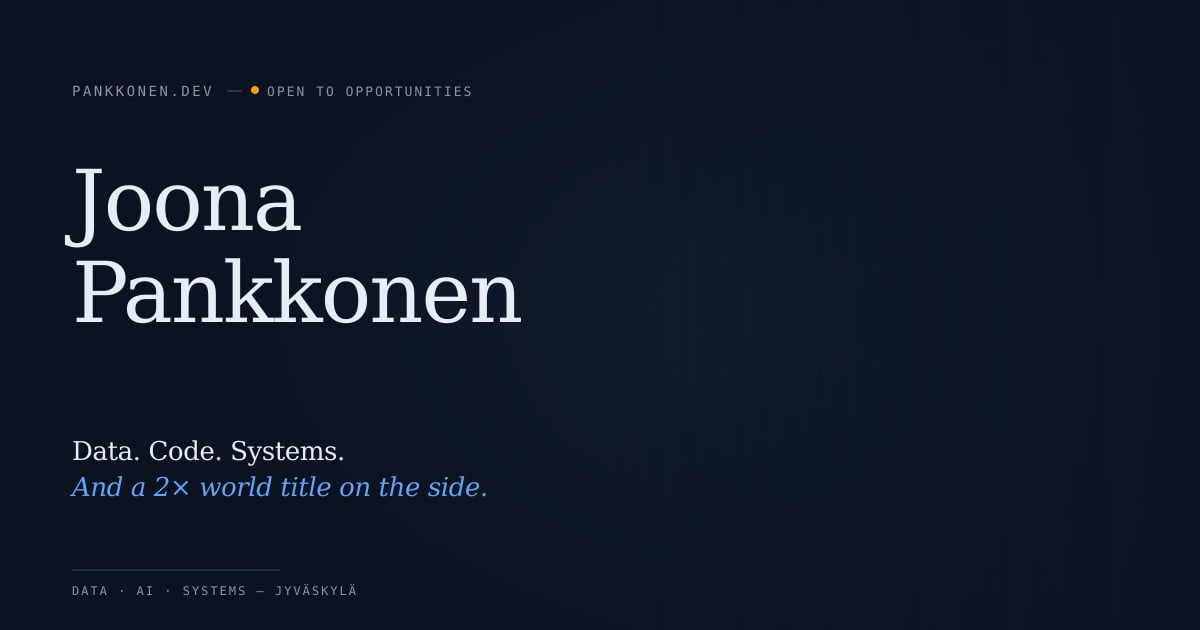
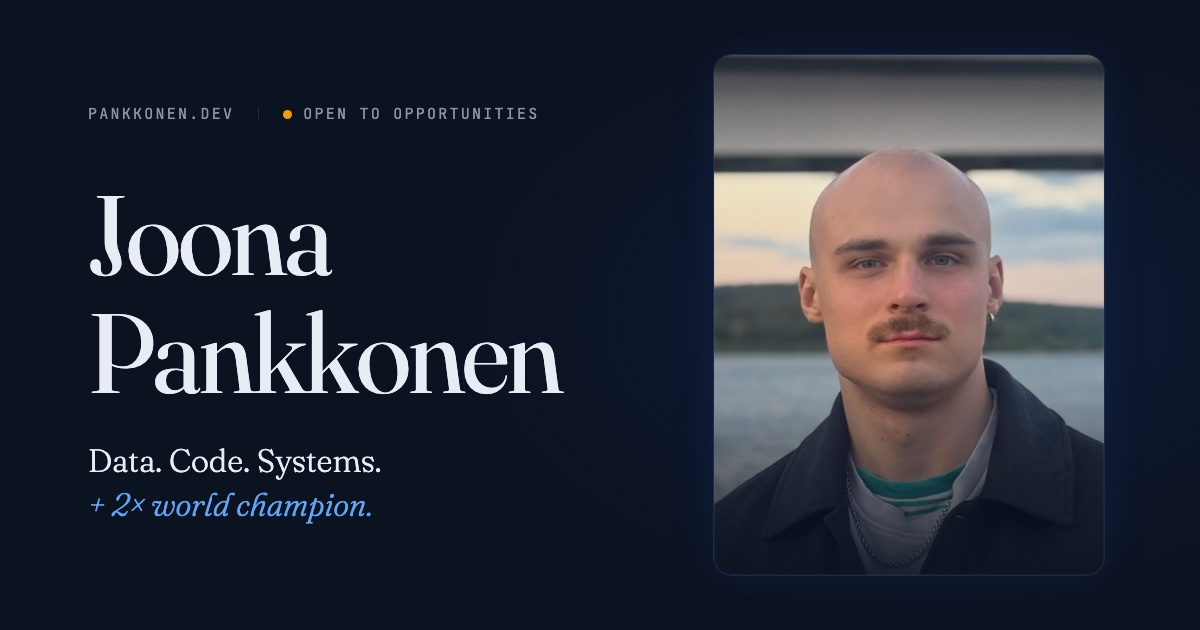
chore: refresh README, fix OG preview and hosting copy
- Rewrite README: overview, screenshots, stack, design system,
  architecture, deployment and build log
- Regenerate og-image.jpg to match the live hero (Fraunces font,
  current tagline, portrait)
- Use absolute og:image/twitter:image URLs, add og:url and canonical
  (set `site` in astro.config.mjs)
- Fix hosting copy: Cloudflare Pages -> Cloudflare Workers
- Rename About.astro -> Beyond.astro to match its content
- Rename docs/superpowers -> docs/design
- Remove unused .codesandbox/Dockerfile
- Bump version to 1.0.0

diff --git a/README.md b/README.md
@@ -1,92 +1,232 @@
+<div align="center">
+
 # pankkonen.dev
 
-Personal CV and portfolio site for Joona Pankkonen — IT Engineering student focused on data analytics and AI, based in Jyväskylä, Finland.
+**Personal portfolio of Joona Pankkonen, an IT engineering student working on data, AI and systems.**<br/>
+Hand-built with Astro: one page, no runtime framework, Lighthouse 100 on desktop.
 
-The reference aesthetic is a blend of modern fintech and editorial sites: deep navy, editorial serif headings, spring-easing scroll reveals, one amber accent used sparingly.
+[![Live site](https://img.shields.io/badge/live-pankkonen.dev-F59E0B?style=flat-square&labelColor=0B1220)](https://pankkonen.dev)
+[![Astro](https://img.shields.io/badge/Astro-6-E8EDF5?style=flat-square&logo=astro&logoColor=white&labelColor=0B1220)](https://astro.build)
+[![Tailwind CSS](https://img.shields.io/badge/Tailwind_CSS-4-E8EDF5?style=flat-square&logo=tailwindcss&logoColor=38BDF8&labelColor=0B1220)](https://tailwindcss.com)
+[![TypeScript](https://img.shields.io/badge/TypeScript-strict-E8EDF5?style=flat-square&logo=typescript&logoColor=3178C6&labelColor=0B1220)](https://www.typescriptlang.org)
+[![Cloudflare Workers](https://img.shields.io/badge/Cloudflare-Workers-E8EDF5?style=flat-square&logo=cloudflare&logoColor=F38020&labelColor=0B1220)](https://workers.cloudflare.com)
+[![Lighthouse](https://img.shields.io/badge/Lighthouse-100_desktop_·_98_mobile-22C55E?style=flat-square&labelColor=0B1220)](#performance)
 
-## Stack
+[**Visit the site →**](https://pankkonen.dev)
 
-- **Framework:** Astro (static HTML at build time, component-based)
-- **Styles:** Tailwind CSS + handwritten `global.css` for tokens and motion
-- **Animation:** CSS-only keyframes for the hero load stagger (`heroStaggerReveal` + `heroImageReveal`); `IntersectionObserver` + CSS keyframes for scroll reveals — no animation library at runtime
-- **Hosting:** Cloudflare Workers Assets (auto-deploy on push to `main`)
-- **Domain:** `pankkonen.dev` — live
+<br/>
 
-## Build progress
+<img src=".github/assets/hero.jpg" alt="pankkonen.dev hero section: name in a serif display face, tagline and portrait on a deep navy background" width="100%" />
 
-| Phase | Area | Status |
-|-------|------|--------|
-| 1 | Scaffolding — Astro + Tailwind + CSS animations | Complete |
-| 2 | Design system — tokens, fonts, layout primitives | Complete |
-| 3 | Hero — name, tagline, photo, load stagger | Complete |
-| 4 | Experience & Stack sections (4 categories incl. AI Workflow) | Complete |
-| 5 | Project cards | Complete |
-| 5b | Divider redesign (oval amber aura + edge-faded line + shimmer) and IO flicker debounce | Complete |
-| 6 | About & Beyond the Code (initial: 50/50 grid + portrait clip) | Complete |
-| 6b | Beyond redesign — full-bleed 16:9 video stage, copy refresh, EAWrc clip swap | Complete (2026-05-01) |
-| 6c | Polish — chapter rail, divider v3 (StackDivider + ProjectsDivider), Projects card count-up, About-konsolidointi | Complete (2026-05-02) |
-| 7 | Contact | Complete |
-| 8 | Polish & accessibility (Lighthouse 100/98) | Complete (2026-05-05) |
-| 9 | Cloudflare Workers Assets deploy (wrangler.toml, auto-deploy on push) | Complete (2026-05-06) |
-| 10 | Domain switch — `pankkonen.dev` live, v1.0 published | Complete (2026-05-06) |
+</div>
 
-## Commands
+<br/>
 
-```sh
-npm install      # install dependencies
-npm run dev      # local dev server on http://localhost:4321
-npm run build    # production build to ./dist
-npm run preview  # preview the production build
-```
+## Contents
 
-## Repo layout
+- [Overview](#overview)
+- [Highlights](#highlights)
+- [Screenshots](#screenshots)
+- [Tech stack](#tech-stack)
+- [Performance](#performance)
+- [Design system](#design-system)
+- [Accessibility](#accessibility)
+- [Architecture](#architecture)
+- [Getting started](#getting-started)
+- [Deployment](#deployment)
+- [How it was built](#how-it-was-built)
+- [License](#license)
 
-```
-src/
-├── layouts/Layout.astro        # html shell, global CSS import, fonts, meta
-├── pages/index.astro           # page composition, hero, scroll-reveal IO
-├── components/
-│   ├── ChapterMarker.astro     # right-rail wayfinder (00–05)
-│   ├── Experience.astro        # two-track work | study timeline
-│   ├── Stack.astro             # 4-column tech index
-│   ├── Projects.astro          # 3 cards + expanding panel + stat count-up
-│   ├── About.astro             # legacy filename — renders Beyond the Code only
-│   ├── Contact.astro           # email, GitHub, LinkedIn
-│   └── *Divider.astro          # 5 section transitions (sweep + editorial)
-└── styles/global.css           # design tokens, motion, section divider
-public/                         # joona.{avif,webp,jpeg}, btc-sim.mp4, btc-sim-mobile.mp4, btc-sim-poster.jpg, og-image.jpg
-docs/superpowers/               # locked specs and execution plans
-wrangler.toml                   # Cloudflare Workers Assets config (assets.directory = dist)
-.node-version                   # pins Node 22 for CF build environment
-```
+## Overview
 
-## Design guarantees
+pankkonen.dev is a single-page CV and portfolio. It aims to read like an editorial site rather than a résumé template: deep navy, a serif display face, scroll-triggered motion and one amber accent that is used sparingly.
 
-- Dark only; no light-mode toggle in v1
-- Scroll-reveal motion uses spring easing `cubic-bezier(0.16, 1, 0.3, 1)` with 28px lift at 750ms; hover and panel transitions use the same curve
-- Hero entrance animations are CSS-only (`@keyframes heroStaggerReveal` + `heroImageReveal`); no animation library at runtime. Hero uses `cubic-bezier(0.215, 0.61, 0.355, 1)` (power2.out) at 500–700ms — intentionally snappier than the scroll-reveal spring
-- Section dividers replay on every scroll pass (both directions)
-- Reduced-motion users get revealed content with no transitions; ambient background videos pause and show their poster frame
-- Beyond the Code video plays only while the section is in the viewport (IO-gated); muted, looped, no controls — pure ambient element
-- Beyond stage caps width at `min(100vw, 85vh × 16/9)` on desktop so the 16:9 clip is always shown in full, with page background visible on ultra-wide screens (Linear / Vercel hero pattern). On mobile (≤768px) the stage switches to `aspect-ratio: 4/5` portrait, full-bleed, with a bottom fade dissolving into the page background instead of the desktop scrim
+The page has six chapters:
+
+| # | Chapter | What it shows |
+|---|---------|---------------|
+| 00 | **Intro** | Name, tagline, availability status and portrait |
+| 01 | **Experience** | Two-track timeline with work on one side and studies on the other |
+| 02 | **Stack** | Tools in four categories: Data & ML, Infrastructure, AI Workflow, Web |
+| 03 | **Projects** | Three case studies. Each one expands into a detail panel with animated stats |
+| 04 | **Beyond the Code** | Full-bleed ambient video about competitive sim racing |
+| 05 | **Contact** | Email, GitHub and LinkedIn |
+
+## Highlights
+
+- **Ships almost no JavaScript.** Astro renders everything to static HTML at build time. The client-side scripts are small vanilla `IntersectionObserver` handlers, and no animation library or UI framework loads at runtime.
+- **Motion built only from CSS keyframes.** The hero has a staggered load-in, sections reveal as they scroll into view, and the five section dividers replay their sweep on every pass in both directions.
+- **Chapter rail.** A sticky marker on the right edge tracks the current section and expands into labels on hover.
+- **Expandable project cards.** One full-width panel opens below the card grid, and numeric stats count up when the panel appears.
+- **Video only when visible.** The *Beyond the Code* clip plays only while it is on screen. Mobile gets a lighter portrait encode, and reduced-motion users see a still poster frame.
+- **Fast images.** The hero portrait is served as AVIF (29 KB), with WebP and JPEG fallbacks and a preload hint for LCP.
+
+## Screenshots
+
+<table>
+  <tr>
+    <td width="72%"><img src=".github/assets/experience.jpg" alt="Experience section with a two-track work and study timeline" /></td>
+    <td width="28%" rowspan="2" valign="top"><img src=".github/assets/mobile.jpg" alt="Mobile layout of the hero section" /></td>
+  </tr>
+  <tr>
+    <td><img src=".github/assets/projects.jpg" alt="Projects section with three case-study cards" /></td>
+  </tr>
+  <tr>
+    <td colspan="2"><img src=".github/assets/beyond.jpg" alt="Beyond the Code section: full-bleed video still from the Esports WRC Knockout Trophy" /></td>
+  </tr>
+</table>
+
+## Tech stack
+
+| Layer | Choice | Why |
+|-------|--------|-----|
+| Framework | [Astro 6](https://astro.build) | Static output, component model, zero JS by default |
+| Styling | [Tailwind CSS 4](https://tailwindcss.com) + scoped component CSS | Utilities for layout, plus hand-written CSS for tokens and motion |
+| Language | TypeScript (strict) | Typed content models for projects, stack and experience |
+| Motion | CSS keyframes + `IntersectionObserver` | No runtime animation library |
+| Fonts | Fraunces · DM Sans · JetBrains Mono | Editorial serif, neutral body text and mono labels |
+| Hosting | [Cloudflare Workers](https://developers.cloudflare.com/workers/static-assets/) (static assets) | Global edge CDN and automatic deploys on push |
 
 ## Performance
 
-Lighthouse scores from the live production site (pankkonen.dev):
+Lighthouse results for the live production site:
 
 | Category | Desktop | Mobile |
-|----------|---------|--------|
+|----------|:-------:|:------:|
 | Performance | **100** | **98** |
-| Accessibility | 100 | 100 |
-| Best Practices | 100 | 100 |
-| SEO | 100 | 100 |
+| Accessibility | **100** | **100** |
+| Best Practices | **100** | **100** |
+| SEO | **100** | **100** |
 
-Notable optimisations:
-- Hero photo served as AVIF (29 KB) with WebP and JPEG fallbacks via `<picture>`
-- AVIF preload hint in `<head>` shaves ~0.4s off mobile LCP
-- Google Fonts CSS loaded non-blocking (`media="print" onload="this.media='all'"`)
-- No JavaScript animation library — hero stagger is CSS keyframes only
+What gets it there:
 
-Re-run with: `npm run build && npm run preview`, then Chrome DevTools → Lighthouse. Keep the tab in the foreground throughout the audit.
+- The LCP image is preloaded as AVIF with `fetchpriority="high"`, which saves about 0.4 s of mobile LCP.
+- Google Fonts load without blocking render (`media="print"` swap, plus a `<noscript>` fallback).
+- The hero entrance uses CSS only, so no script has to run before first paint.
+- The background video is gated by `IntersectionObserver` and gets a separate, smaller mobile encode.
 
-Links: [Live site](https://pankkonen.dev) · [GitHub](https://github.com/joonapankkone/pankkonen-dev)
+> To reproduce: `npm run build && npm run preview`, then run Lighthouse in Chrome DevTools with the tab kept in the foreground.
+
+## Design system
+
+All visual decisions live as CSS custom properties in [`src/styles/global.css`](src/styles/global.css).
+
+| Token | Value | Role |
+|-------|-------|------|
+| `--bg` | `#0B1220` | Page background |
+| `--surface` | `#141F38` | Cards and panels |
+| `--text` | `#E8EDF5` | Primary text |
+| `--text-muted` | `#8A94A8` | Secondary text and mono labels |
+| `--primary-soft` | `#60A5FA` | Italic emphasis in headings |
+| `--amber` | `#F59E0B` | The single accent: status dot, active chapter, dividers |
+| `--cyan` | `#22D3EE` | Frontend category tint |
+
+**Typography.** Headings are set in Fraunces, body text in DM Sans and labels in JetBrains Mono. Display sizes scale fluidly with `clamp()`.
+
+**Spacing.** An 8 px base scale (`8 · 16 · 24 · 40 · 64 · 104 · 168`).
+
+**Motion.**
+
+- Scroll reveals use a spring curve, `cubic-bezier(0.16, 1, 0.3, 1)`, with a 28 px lift over 750 ms. Hover states and panel transitions use the same curve.
+- The hero uses a snappier `cubic-bezier(0.215, 0.61, 0.355, 1)` over 500–700 ms, so the first impression feels immediate.
+
+**Theme.** The site is dark only, by design.
+
+## Accessibility
+
+- Semantic landmarks, a logical heading order and a *Skip to content* link
+- Full keyboard navigation with visible focus rings
+- `prefers-reduced-motion` support: content appears without transitions and the video shows its poster frame
+- Descriptive `alt` text, and `aria-hidden` on purely decorative elements
+- Colour contrast checked against WCAG AA
+
+## Architecture
+
+```
+src/
+├── layouts/
+│   └── Layout.astro            # <head>: meta, Open Graph, fonts, preloads
+├── pages/
+│   └── index.astro             # Page composition, hero, scroll-reveal observer
+├── components/
+│   ├── ChapterMarker.astro     # Sticky right-rail wayfinder (00–05)
+│   ├── Experience.astro        # Two-track work / study timeline
+│   ├── Stack.astro             # Four-category tool index
+│   ├── Projects.astro          # Case-study cards, expanding panel, stat count-up
+│   ├── Beyond.astro            # Full-bleed ambient video section
+│   ├── Contact.astro           # Contact links and footer
+│   └── *Divider.astro          # Five section transitions
+└── styles/
+    └── global.css              # Design tokens, base typography, shared motion
+
+public/                         # Static assets: portrait, video, OG image, favicons
+docs/design/                    # Design specs and implementation plans per feature
+wrangler.toml                   # Cloudflare Workers static-assets config
+```
+
+**Content is co-located with its component.** Each section defines its data as a typed array at the top of its `.astro` file, for example `Project[]` in `Projects.astro`. Updating the CV therefore means editing data, not markup.
+
+## Getting started
+
+**Requirements:** Node.js 22 or newer (pinned in [`.node-version`](.node-version))
+
+```sh
+git clone https://github.com/joonapankkone/pankkonen-dev.git
+cd pankkonen-dev
+npm install
+npm run dev        # http://localhost:4321
+```
+
+| Command | Action |
+|---------|--------|
+| `npm run dev` | Start the local dev server with hot reload |
+| `npm run build` | Build the production site to `./dist` |
+| `npm run preview` | Serve the production build locally |
+
+## Deployment
+
+```mermaid
+flowchart LR
+    A[git push main] --> B[Cloudflare build<br/>npm run build]
+    B --> C[Workers static assets<br/>./dist]
+    C --> D[pankkonen.dev<br/>global edge]
+```
+
+Every push to `main` triggers a Cloudflare build. The `dist/` output is served as static assets from Cloudflare's edge network, as configured in [`wrangler.toml`](wrangler.toml). There is no server code and nothing to keep running.
+
+## How it was built
+
+This site was built with AI pair-programming, and that is a deliberate part of the story. I set the architecture, the design direction and the quality bar. [Claude](https://claude.ai) did much of the implementation under my direction, across Claude Code, Cowork and Design.
+
+Every feature started as a written spec and an implementation plan, which are kept in [`docs/design/`](docs/design). Each plan was reviewed, executed and then refined by hand. The refinement covered animation debugging, responsive edge cases, micro-copy and visual polish.
+
+<details>
+<summary><strong>Build log</strong></summary>
+<br/>
+
+| Phase | Scope | Shipped |
+|-------|-------|---------|
+| 1 | Scaffolding: Astro, Tailwind, CSS motion | Apr 2026 |
+| 2 | Design system: tokens, fonts, layout primitives | Apr 2026 |
+| 3 | Hero: name, tagline, portrait, load stagger | Apr 2026 |
+| 4 | Experience timeline and Stack index | Apr 2026 |
+| 5 | Project cards and expanding detail panel | Apr 2026 |
+| 6 | Beyond the Code: full-bleed video stage | May 2026 |
+| 7 | Contact | May 2026 |
+| 8 | Polish and accessibility pass (Lighthouse 100/98) | May 2026 |
+| 9 | Cloudflare deployment with auto-deploy on push | May 2026 |
+| 10 | Custom domain, **v1.0 live** | May 2026 |
+
+</details>
+
+## License
+
+The source code is public so you can see how the site is built, and you are welcome to learn from it.
+Personal content is © 2026 Joona Pankkonen, all rights reserved. This covers the text, portrait, video and project write-ups, and none of it may be reused without permission.
+
+<div align="center">
+<br/>
+
+**[pankkonen.dev](https://pankkonen.dev)** · [LinkedIn](https://linkedin.com/in/joona-pankkonen-b67463351) · [GitHub](https://github.com/joonapankkone)
+
+</div>

diff --git a/docs/design/specs/2026-04-25-ai-narrative-stack-mobile-rework.md b/docs/design/specs/2026-04-25-ai-narrative-stack-mobile-rework.md
@@ -343,5 +343,5 @@ Ship sequentially as three commits:
 - Used Car ML team-effort framing rule: memory file `project_used_car_ml.md`
 - Future Factory project context: memory file `project_future_factory_team_fearless.md`
 - Animation philosophy (spring easing, IO double-rAF): memory file `feedback_animation_design.md`
-- Phase 5 Projects original spec: `docs/superpowers/specs/2026-04-24-phase5-projects-design.md`
-- Section divider redesign: `docs/superpowers/specs/2026-04-24-divider-redesign.md`
+- Phase 5 Projects original spec: `docs/design/specs/2026-04-24-phase5-projects-design.md`
+- Section divider redesign: `docs/design/specs/2026-04-24-divider-redesign.md`

diff --git a/docs/design/plans/2026-05-01-beyond-fullbleed-and-copy.md b/docs/design/plans/2026-05-01-beyond-fullbleed-and-copy.md
@@ -8,7 +8,7 @@
 
 **Tech Stack:** Astro 6, scoped Astro `<style>` and `<script>`, IntersectionObserver, ffmpeg (VP9/H.264 encoding).
 
-**Spec:** `docs/superpowers/specs/2026-05-01-beyond-fullbleed-and-copy-design.md`
+**Spec:** `docs/design/specs/2026-05-01-beyond-fullbleed-and-copy-design.md`
 
 **Source clip:** `EAWrc_knockoutv2.mov` — 1920×1080, 60 fps, ~16 s, ~19 Mbps (verified via `ffprobe`). Currently in the session's `uploads/` folder; the user will copy it to a working location at the start of Task 1.
 

diff --git a/docs/design/plans/2026-04-24-phase5-projects.md b/docs/design/plans/2026-04-24-phase5-projects.md
@@ -30,7 +30,7 @@
 ---
 // Projects — Section 03
 // Apple product-grid pattern: cards stay visible, full-width panel opens below.
-// Ref: docs/superpowers/specs/2026-04-24-phase5-projects-design.md
+// Ref: docs/design/specs/2026-04-24-phase5-projects-design.md
 
 type Stat = { value: string; label: string };
 type Link = { href: string; label: string; style: 'primary' | 'ghost'; disabled?: boolean };
